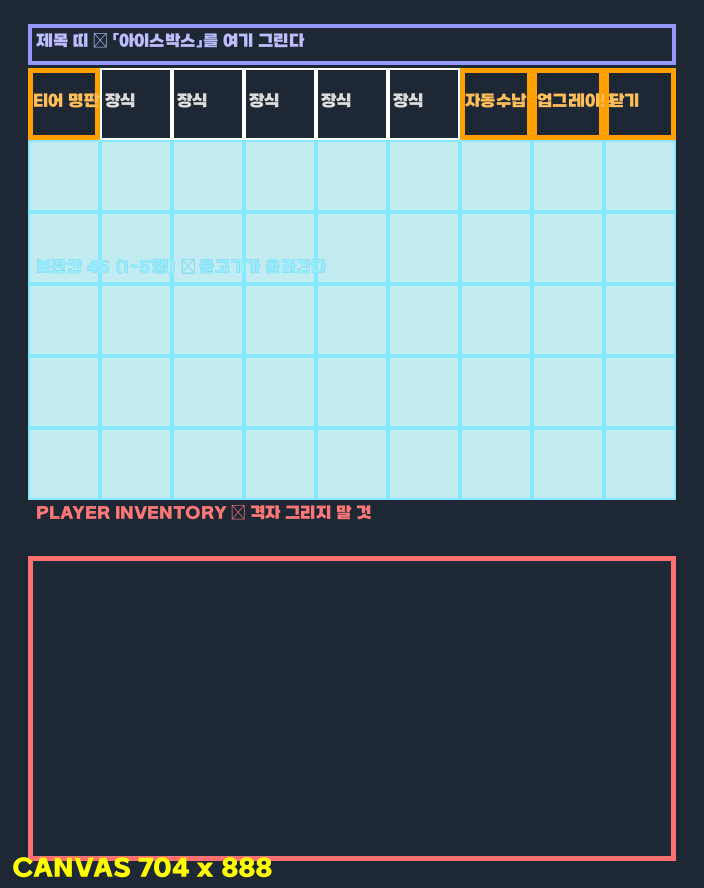
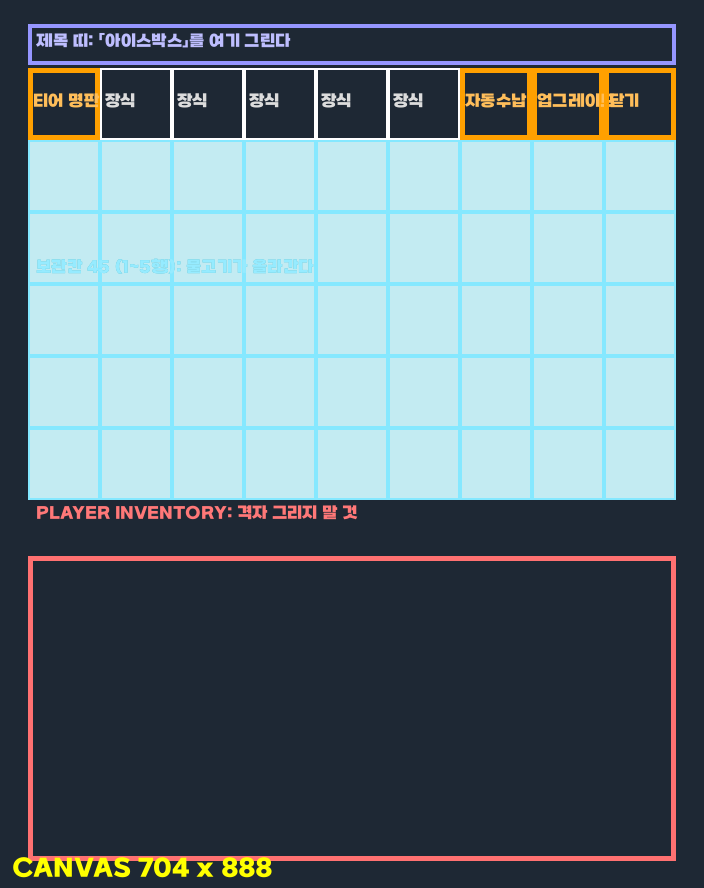
전용 배경 발주서 — 강화·주방·우편함 3장 (한 문서)
셋 다 0행을 슬롯이 쓴다(강화=낚싯대 정보, 주방=탭, 우편함=우편). 그래서
공용판(0행=제목 명판)을 못 쓰고 아이스박스와 같은 구조 — 제목을 격자 위쪽
띠로 올린 전용 판 — 로 간다. 제목 글자는 굽지 않는다(화면마다 문구가 바뀐다).

가이드는 칸 색으로 역할을 구분한다: 홈/입력/목록/장식. 특히 강화의 입력 4칸은
"넣는 칸"이라 일반 홈과 달라 보여야 한다.

강화는 5행이라 캔버스 세로가 816(나머지는 888)이다. 좌표는 생성기와 대조 검증.

Changed region(s): [[0.3125, 0.5473, 0.5312, 0.6081], [0.125, 0.0304, 0.4375, 0.0608], [0.25, 0.2736, 0.4688, 0.3041]]

diff --git a/gui-forge/make_page_layouts.py b/gui-forge/make_page_layouts.py
@@ -1,0 +1,112 @@
+#!/usr/bin/env python3
+"""전용 배경 3장 좌표 가이드 — 강화 · 주방 · 우편함.
+
+세 화면 다 **0행을 슬롯이 쓴다**. 그래서 공용판(0행 = 제목 명판)을 못 쓰고,
+아이스박스와 같은 구조 — 제목을 격자 **위쪽 띠**로 올린 전용 판 — 로 간다.
+
+역할 표기
+  홈   : 아이템이 올라가는 자리. 홈만 파고 아이콘은 우리가 올린다
+  입력 : 플레이어가 아이템을 넣는 빈 칸. 다른 홈과 **구분되게** 그린다
+  목록 : 내용물이 매번 바뀌는 칸. 안쪽은 조용하게
+  장식 : 아이템 없음. 그림으로 채운다
+
+산출: src/<이름>/_guide.png
+"""
+import os
+
+from PIL import Image, ImageDraw, ImageFont
+
+HERE = os.path.dirname(os.path.abspath(__file__))
+RP = os.path.expanduser("~/development/barkan-resourcepack")
+FONT_TTF = os.path.join(RP, "assets/barkan/font/aggro_bold.ttf")
+
+SCALE, GRID_X, GRID_Y, CELL, COLS = 4, 7, 17, 18, 9
+TITLE_Y0, TITLE_Y1 = 24, 64
+
+ROLE_COLOR = {
+    "홈":   ((255, 160, 0, 255), (255, 190, 90, 255)),
+    "입력": ((80, 255, 140, 255), (150, 255, 190, 255)),
+    "목록": ((120, 200, 255, 255), (170, 220, 255, 255)),
+    "장식": ((160, 160, 160, 160), (200, 200, 200, 200)),
+}
+
+# 이름: (행 수, {슬롯: (역할, 라벨)}, 기본역할)
+PAGES = {
+    "enhance": (5, {
+        4: ("홈", "낚싯대 정보"),
+        10: ("홈", "↓라벨"), 12: ("홈", "↓라벨"), 13: ("홈", "↓라벨"), 14: ("홈", "↓라벨"),
+        19: ("입력", "낚싯대"), 21: ("입력", "상승권"), 22: ("입력", "방지권"), 23: ("입력", "감소권"),
+        16: ("홈", "강화 전"), 25: ("홈", "▼"), 34: ("홈", "강화 후"),
+        31: ("홈", "성공률"), 40: ("홈", "강화 버튼"),
+    }, "장식"),
+    "cooking": (6, {
+        **{s: ("홈", "탭") for s in (0, 1, 2)}, 8: ("홈", "안내"),
+        **{s: ("목록", "") for s in
+           list(range(10, 17)) + list(range(19, 26)) + list(range(28, 35))},
+        45: ("홈", "이전"), 47: ("홈", "대기열"), 49: ("홈", "페이지"),
+        50: ("홈", "다음"), 53: ("홈", "닫기"),
+    }, "장식"),
+    "mailbox": (6, {
+        **{s: ("목록", "") for s in range(45)},
+        45: ("홈", "이전"), 48: ("홈", "안내"), 49: ("홈", "모두 수령"),
+        53: ("홈", "다음"),
+    }, "장식"),
+}
+
+
+def font(px):
+    try:
+        return ImageFont.truetype(FONT_TTF, px)
+    except Exception:
+        return ImageFont.load_default()
+
+
+def geom(rows):
+    gh = 114 + rows * CELL
+    return 176 * SCALE, gh * SCALE, 31 + rows * CELL
+
+
+def guide(rows, roles, default):
+    w, h, inv_y = geom(rows)
+    im = Image.new("RGBA", (w, h), (34, 34, 42, 255))
+    d = ImageDraw.Draw(im, "RGBA")
+    fs = font(15)
+    for r in range(rows):
+        for c in range(COLS):
+            s = r * COLS + c
+            role, label = roles.get(s, (default, ""))
+            outline, text = ROLE_COLOR[role]
+            x0, y0 = (GRID_X + CELL * c) * SCALE, (GRID_Y + CELL * r) * SCALE
+            box = [x0, y0, x0 + CELL * SCALE - 1, y0 + CELL * SCALE - 1]
+            d.rectangle(box, outline=outline, width=5 if role != "장식" else 2)
+            d.text((x0 + 4, y0 + 4), str(s), font=fs, fill=(255, 255, 255, 180))
+            if label:
+                d.text((x0 + 4, y0 + 44), label, font=fs, fill=text)
+            elif role == "장식":
+                d.text((x0 + 4, y0 + 44), "장식", font=fs, fill=text)
+
+    d.rectangle([GRID_X * SCALE, TITLE_Y0, (GRID_X + CELL * COLS) * SCALE - 1, TITLE_Y1],
+                outline=(150, 150, 255, 255), width=4)
+    d.text((GRID_X * SCALE + 8, TITLE_Y0 + 8), "제목 띠: 글자는 코드가 찍는다. 판만 그릴 것",
+           font=fs, fill=(190, 190, 255, 255))
+    d.rectangle([GRID_X * SCALE, inv_y * SCALE, (GRID_X + CELL * COLS) * SCALE - 1,
+                 (inv_y + 76) * SCALE], outline=(255, 90, 90, 220), width=5)
+    d.text((GRID_X * SCALE + 8, (inv_y - 13) * SCALE), "PLAYER INVENTORY: 격자 그리지 말 것",
+           font=fs, fill=(255, 120, 120, 255))
+    d.text((12, h - 30), f"CANVAS {w} x {h}", font=font(22), fill=(255, 255, 0, 255))
+    return im
+
+
+def main():
+    for name, (rows, roles, default) in PAGES.items():
+        w, h, inv_y = geom(rows)
+        out = os.path.join(HERE, "src", name)
+        os.makedirs(out, exist_ok=True)
+        guide(rows, roles, default).save(os.path.join(out, "_guide.png"))
+        ry = [((GRID_Y + CELL * r) * SCALE, (GRID_Y + CELL * (r + 1)) * SCALE - 1) for r in range(rows)]
+        print(f"  {name:8} {w}x{h} · {rows}행 · 인벤 y {inv_y * SCALE}~{(inv_y + 76) * SCALE}")
+        print(f"           행 y {' · '.join(f'r{i} {a}~{b}' for i, (a, b) in enumerate(ry))}")
+
+
+if __name__ == "__main__":
+    main()

diff --git a/gui-forge/make_icebox_layout.py b/gui-forge/make_icebox_layout.py
@@ -58,7 +58,7 @@ def guide():
         for c in range(COLS):
             b = cell(c, r)
             d.rectangle(b, fill=(0, 170, 200, 60), outline=(120, 230, 255, 230), width=2)
-    d.text((cell(0, 3)[0] + 8, cell(0, 3)[1] - 26), "보관칸 45 (1~5행) — 물고기가 올라간다",
+    d.text((cell(0, 3)[0] + 8, cell(0, 3)[1] - 26), "보관칸 45 (1~5행): 물고기가 올라간다",
            font=fs, fill=(150, 235, 255, 255))
 
     # 머리줄
@@ -72,12 +72,12 @@ def guide():
 
     d.rectangle([GRID_X * SCALE, TITLE_Y0, (GRID_X + CELL * COLS) * SCALE - 1, TITLE_Y1],
                 outline=(150, 150, 255, 255), width=4)
-    d.text((GRID_X * SCALE + 8, TITLE_Y0 + 8), "제목 띠 — 「아이스박스」를 여기 그린다",
+    d.text((GRID_X * SCALE + 8, TITLE_Y0 + 8), "제목 띠: 「아이스박스」를 여기 그린다",
            font=fs, fill=(190, 190, 255, 255))
 
     d.rectangle([GRID_X * SCALE, INV_Y0 * SCALE, (GRID_X + CELL * COLS) * SCALE - 1, (INV_Y0 + 76) * SCALE],
                 outline=(255, 90, 90, 220), width=5)
-    d.text((GRID_X * SCALE + 8, (INV_Y0 - 13) * SCALE), "PLAYER INVENTORY — 격자 그리지 말 것",
+    d.text((GRID_X * SCALE + 8, (INV_Y0 - 13) * SCALE), "PLAYER INVENTORY: 격자 그리지 말 것",
            font=fs, fill=(255, 120, 120, 255))
     d.text((12, H - 34), f"CANVAS {W} x {H}", font=f, fill=(255, 255, 0, 255))
     return im

diff --git a/gui-forge/codex-brief-pages3.md b/gui-forge/codex-brief-pages3.md
@@ -1,0 +1,130 @@
+# 발주 — 전용 배경 3장 (강화 · 주방 · 우편함)
+
+## 첨부
+| 화면 | 좌표 가이드 |
+|---|---|
+| 강화 | `src/enhance/_guide.png` |
+| 주방 | `src/cooking/_guide.png` |
+| 우편함 | `src/mailbox/_guide.png` |
+
+**만듦새 기준: `src/icebox/bg_source.png`** — 방금 나온 아이스박스 판의 완성도(홈의 입체감,
+프레임 장식, 질감 밀도)가 목표치다. **색과 소재는 화면마다 다르게** 간다(아래 각 항목).
+
+---
+
+## 낼 것 3장
+| 파일 | 크기 | 배경 |
+|---|---|---|
+| `src/enhance/bg_source.png` | **704 × 816** ← ★5행이라 세로가 다르다 | 불투명 |
+| `src/cooking/bg_source.png` | **704 × 888** | 불투명 |
+| `src/mailbox/bg_source.png` | **704 × 888** | 불투명 |
+
+---
+
+## 절대 규칙 (어기면 게임에서 깨짐)
+
+1. **가이드를 아래 레이어로 깔고 그린다.** 캔버스 **1px도 다르면 안 된다.**
+2. **투명 픽셀 0.** 둥근 모서리 바깥도 어두운 색으로 — 투명하면 바닐라 상자 배경이 비친다.
+3. **좌우 프레임은 한쪽 16px 이내.** 슬롯 격자는 마크가 고정한 값이라 협상이 안 된다.
+4. **빨강 영역(플레이어 인벤)엔 격자를 그리지 말 것.** 민무늬 패널.
+5. **칸 경계를 가이드 상자에 정확히 맞출 것.** 어긋나면 "누른 곳과 다른 게 열린다".
+6. **제목 글자를 그리지 말 것.** 제목은 코드가 찍는다(화면마다 문구가 바뀐다). **판만** 그린다.
+
+### 가이드의 칸 색이 곧 역할이다
+| 색 | 역할 | 그리는 법 |
+|---|---|---|
+| 주황 | **홈** — 우리가 아이콘을 올린다 | 홈만 판다. 그림 금지 |
+| 초록 | **입력** — 플레이어가 아이템을 넣는다 | 홈을 파되 **주황과 확실히 구분**되게(예: 안쪽이 더 깊거나 테두리 색이 다르게) |
+| 파랑 | **목록** — 내용이 매번 바뀐다 | 얕은 홈. **안쪽은 조용하게**(아이템이 올라간다) |
+| 회색 | **장식** — 아이템 없음 | 그림으로 채운다 |
+
+---
+
+## 공통 좌표 (art px)
+
+```
+제목 띠   y  24 ~  64      판만. 글자 없음
+가로      x  28 ~ 675      슬롯 격자 범위
+행 y      r0  68~139 · r1 140~211 · r2 212~283 · r3 284~355 · r4 356~427 · r5 428~499
+열 x      72px 등분 — c0 28~99 · c1 100~171 · … · c8 604~675
+인벤      강화(5행) y 484~788   /   주방·우편함(6행) y 556~860
+```
+
+---
+
+## ① 강화 — 「긴장」  (704 × **816**, 5행)
+
+낚싯대를 **깨질 수도 있는** 강화에 거는 화면이다. 성공하면 좋고 실패하면 등급이 내려간다.
+**모루 앞에 선 것 같은 긴장감**이 목표다.
+
+- 소재: **달궈진 쇠 · 그을린 돌 · 불티.** 어두운 바탕에 아래쪽에서 **주황 불빛**이 올라온다.
+- 아이스박스가 차갑고 정적이라면 이쪽은 **뜨겁고 불안정하게.** 대칭을 살짝 흐트러뜨려도 좋다.
+- 40번(강화 버튼)만은 **눌러야 할 것처럼** 강조 — 홈 주변이 달아오르거나 불티가 모이게.
+
+**칸 배치**
+| 자리 | 슬롯 | 내용 |
+|---|---|---|
+| 낚싯대 정보 | 4 | 홈 |
+| 라벨 (구울 글자) | 10 · 12 · 13 · 14 | ★**아래 글자를 배경에 구울 것** |
+| 입력 4칸 | 19 · 21 · 22 · 23 | 초록 — 넣는 칸 |
+| 강화 전 → ▼ → 강화 후 | 16 · 25 · 34 | 세로 흐름. **25번의 ▼ 화살표는 배경에 구울 것** |
+| 성공률 | 31 | 홈 |
+| 강화 버튼 | 40 | 홈 — 가장 눈에 띄게 |
+
+★**10 · 12 · 13 · 14 자리에 구울 글자** (지금은 종이 아이템이 대신하고 있다 — 걷어낼 것):
+`낚싯대` / `상승권` / `방지권` / `감소권`
+글자는 작아도 되지만 **입력칸 바로 위**에 붙어서 "이 칸에 이걸 넣어라"로 읽혀야 한다.
+
+16 → 25 → 34 는 **위에서 아래로 흐르는 한 덩어리**로 보이게 묶어 달라(테두리를 하나로 두르거나
+뒤에 세로 홈통을 파는 식). 지금은 따로 노는 칸 세 개로 보인다.
+
+---
+
+## ② 주방 — 「따뜻함」  (704 × 888, 6행)
+
+요리를 고르는 화면. 강화가 뜨겁고 위험하다면 **여기는 뜨겁고 아늑하다.**
+
+- 소재: **화덕 · 나무 조리대 · 구리 냄비 · 향신료.** 따뜻한 갈색~황금빛, 은은한 불빛.
+- ★**4행(슬롯 36~44, art y 356~427)이 통째로 비어 있다.** 여기가 이 화면의 그림 자리다 —
+  **화덕이나 끓는 냄비**를 크게 그려 넣어라. 목록과 버튼줄 사이의 띠라 가로로 긴 그림이 맞다.
+
+**칸 배치**
+| 자리 | 슬롯 | 내용 |
+|---|---|---|
+| 탭 3개 | 0 · 1 · 2 | 홈. **선택된 탭이 튀어나와 보이도록** 홈 주변에 탭 모양 자리를 만들어 달라 |
+| 안내 | 8 | 홈 |
+| 요리 목록 | 10~16 · 19~25 · 28~34 (3행 × 7열) | 파랑 — 얕은 홈. 안쪽 조용하게 |
+| **장식 띠** | 36~44 | ★화덕/냄비 그림 |
+| 버튼줄 | 45 · 47 · 49 · 50 · 53 | 홈 |
+
+목록 21칸은 **하나의 조리대 상판**처럼 한 덩어리로 묶여 보이는 게 좋다 — 칸마다 액자를
+두르면 답답해진다.
+
+---
+
+## ③ 우편함 — 「도착했다」  (704 × 888, 6행)
+
+보상이 도착해 있는 곳. 열었을 때 **선물 같아야** 한다.
+
+- 소재: **가죽 · 밀랍 봉인 · 황동 · 편지지.** 따뜻한 갈색 + 봉인 왁스의 붉은색.
+- 우체통/서류함 느낌. 위쪽 프레임에 **봉인 도장이나 리본** 같은 장식 하나면 충분하다.
+
+**칸 배치**
+| 자리 | 슬롯 | 내용 |
+|---|---|---|
+| 우편 45칸 | 0~44 (0~4행 전부) | 파랑 — 얕은 홈, 안쪽 조용하게 |
+| 이전 · 안내 · 모두 수령 · 다음 | 45 · 48 · 49 · 53 | 홈 |
+| 장식 | 46 · 47 · 50 · 51 · 52 | 아이템 없음 |
+
+45칸은 **전부 같은 모양**이어야 한다 — 비어 있는 칸이 대부분인 화면이라, 칸마다 다르면
+"뭔가 있는 칸"처럼 오해된다. 빈 칸이 많은 게 기본 상태이니 **빈 홈이 허전해 보이지 않게**
+얕고 차분하게.
+
+**49번(모두 수령)은 이 화면에서 제일 많이 누르는 버튼**이다 — 홈을 조금 크거나 도드라지게.
+
+---
+
+## 세 장의 관계
+아이스박스(차가움) · 강화(뜨거움·위험) · 주방(따뜻함·아늑) · 우편함(따뜻함·차분).
+**같은 서버의 다른 방**처럼 보이면 된다 — 프레임 구조와 홈의 만듦새는 공유하되,
+색과 소재로 갈라라. 네 장을 나란히 놓았을 때 어느 것이 어느 화면인지 색만 보고 알 수 있어야 한다.
